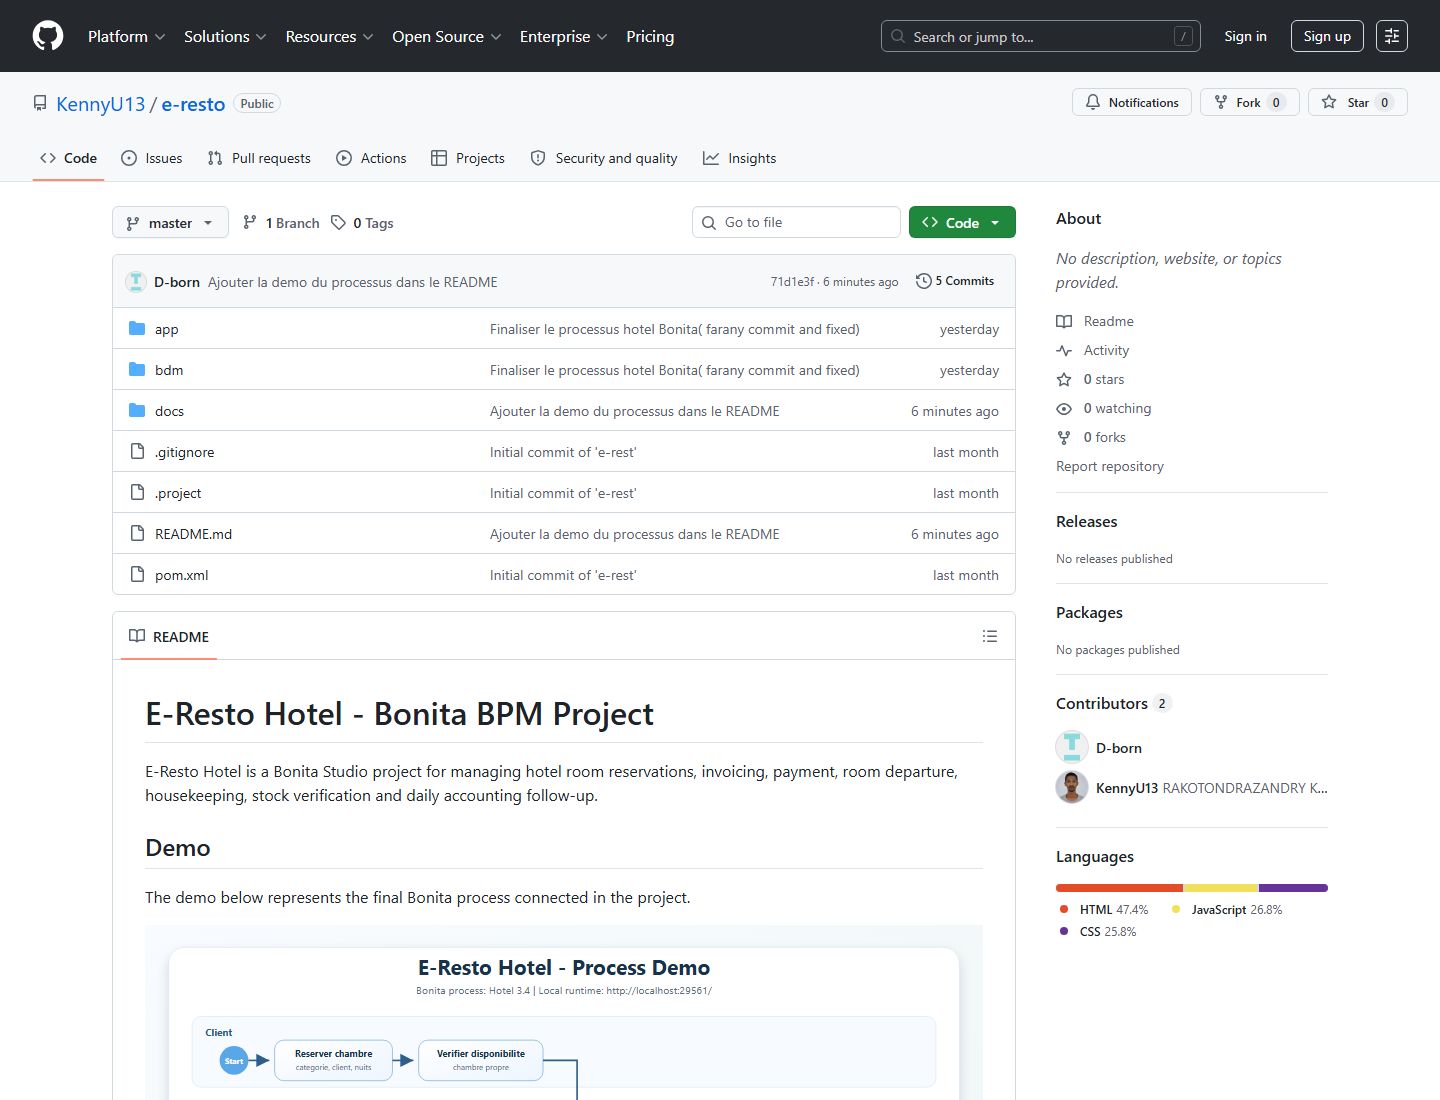
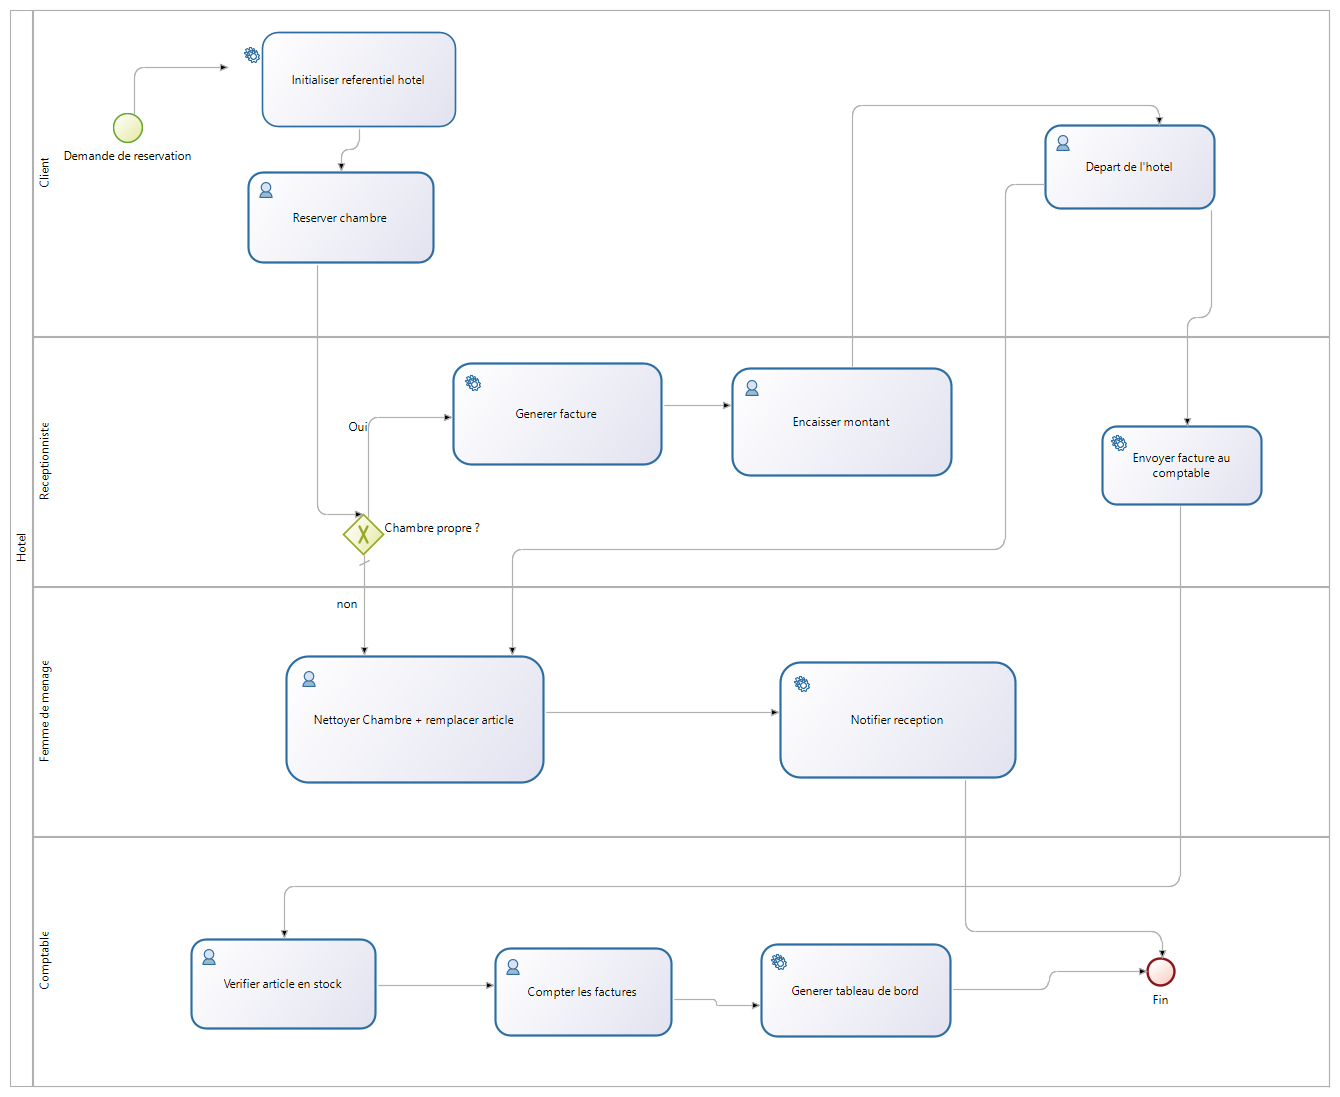
Update e-resto demo capture

diff --git a/src/pages/Projects/Projects.jsx b/src/pages/Projects/Projects.jsx
@@ -16,7 +16,7 @@ const projects = [
     title: "E-Resto Hotel",
     description:
       "Projet Bonita Studio pour la gestion des reservations hotelieres, facturation, paiement, depart des chambres, menage, verification de stock et suivi comptable journalier.",
-    image: "/project-demos/e-resto.png?v=2",
+    image: "/project-demos/e-resto.png?v=3",
     color: "#8f89ff",
     stack: ["Bonita BPM", "Java", "Processus metier"],
     githubLink: "https://github.com/KennyU13/e-resto",
